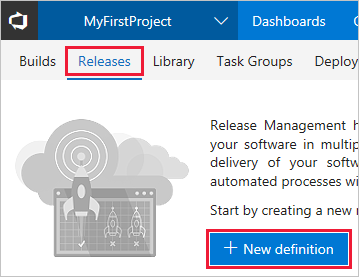
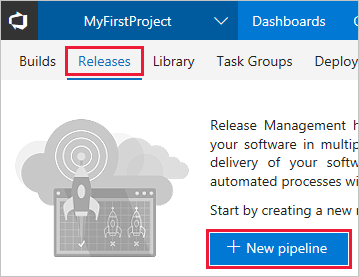
Unit testing notes, DevOps updates for UI changes

Changed region(s): [[0.6128, 0.8664, 0.9499, 0.9242]]

diff --git a/aspnetcore/azure/devops/cicd.md b/aspnetcore/azure/devops/cicd.md
@@ -17,7 +17,7 @@ In this section, you'll complete the following tasks:
 * Create a VSTS account
 * Create a team project in VSTS
 * Create a build definition
-* Create a release definition
+* Create a release pipeline
 * Commit changes to GitHub and automatically deploy to Azure
 * Examine the VSTS DevOps pipeline
 
@@ -119,9 +119,9 @@ There are three distinct steps to complete. Completing the steps in the followin
 
     Use the default folder of *\\*, and click the **Save** button.
 
-### Create the release definition
+### Create the release pipeline
 
-1. Click the **Releases** tab of your team project. Click the **New definition** button.
+1. Click the **Releases** tab of your team project. Click the **New pipeline** button.
 
     ![Releases tab - New definition button](media/cicd/vsts-new-release-definition.png)
 
@@ -129,17 +129,17 @@ There are three distinct steps to complete. Completing the steps in the followin
 
 1. From the template selection page, enter *App Service* in the search box:
 
-    ![Release definition template search box](media/cicd/vsts-release-template-search.png)
+    ![Release pipeline template search box](media/cicd/vsts-release-template-search.png)
 
-1. The template search results appear. Hover over the **Azure App Service Deployment with Slot** template, and click the **Apply** button. The **Pipeline** tab of the release definition appears.
+1. The template search results appear. Hover over the **Azure App Service Deployment with Slot** template, and click the **Apply** button. The **Pipeline** tab of the release pipeline appears.
 
-    ![Release definition Pipeline tab](media/cicd/vsts-release-definition-pipeline.png)
+    ![Release pipeline Pipeline tab](media/cicd/vsts-release-definition-pipeline.png)
 
 1. Click the **Add** button in the **Artifacts** box. The **Add artifact** panel appears:
 
-    ![Release definition - Add artifact panel](media/cicd/vsts-release-add-artifact.png)
+    ![Release pipeline - Add artifact panel](media/cicd/vsts-release-add-artifact.png)
 
-1. Select the **Build** tile from the **Source type** section. This type allows for the linking of the release definition to the build definition.
+1. Select the **Build** tile from the **Source type** section. This type allows for the linking of the release pipeline to the build definition.
 1. Select *MyFirstProject* from the **Project** drop-down.
 1. Select the build definition name, *MyFirstProject-ASP.NET Core-CI*, from the **Source (Build definition)** drop-down.
 1. Select *Latest* from the **Default version** drop-down. This option builds the artifacts produced by the latest run of the build definition.
@@ -147,19 +147,19 @@ There are three distinct steps to complete. Completing the steps in the followin
 1. Click the **Add** button. The **Artifacts** section updates to display the changes.
 1. Click the lightning bolt icon to enable continuous deployments:
 
-    ![Release definition Artifacts - lightning bolt icon](media/cicd/vsts-artifacts-lightning-bolt.png)
+    ![Release pipeline Artifacts - lightning bolt icon](media/cicd/vsts-artifacts-lightning-bolt.png)
 
     With this option enabled, a deployment occurs each time a new build is available.
-1. A **Continuous deployment trigger** panel appears to the right. Click the toggle button to enable the feature.
+1. A **Continuous deployment trigger** panel appears to the right. Click the toggle button to enable the feature. It isn't necessary to enable the **Pull request trigger**.
 1. Click the **Add** drop-down in the **Build branch filters** section. Choose the **Build Definition's default branch** option. This filter causes the release to trigger only for a build from the GitHub repository's *master* branch.
 1. Click the **Save** button. Click the **OK** button in the resulting **Save** modal dialog.
 1. Click the **Environment 1** box. An **Environment** panel appears to the right. Change the *Environment 1* text in the **Environment name** textbox to *Production*.
 
-   ![Release definition - Environment name textbox](media/cicd/vsts-environment-name-textbox.png)
+   ![Release pipeline - Environment name textbox](media/cicd/vsts-environment-name-textbox.png)
 
 1. Click the **1 phase, 2 tasks** link in the **Production** box:
 
-    ![Release definition - Production environment link.png](media/cicd/vsts-production-link.png)
+    ![Release pipeline - Production environment link.png](media/cicd/vsts-production-link.png)
 
     The **Tasks** tab of the environment appears.
 1. Click the **Deploy Azure App Service to Slot** task. Its settings appear in a panel to the right.
@@ -169,9 +169,9 @@ There are three distinct steps to complete. Completing the steps in the followin
 1. Select *AzureTutorial* from the **Resource group** drop-down.
 1. Select *staging* from the **Slot** drop-down.
 1. Click the **Save** button.
-1. Hover over the default release definition name. Click the pencil icon to edit it. Use *MyFirstProject-ASP.NET Core-CD* as the name.
+1. Hover over the default release pipeline name. Click the pencil icon to edit it. Use *MyFirstProject-ASP.NET Core-CD* as the name.
 
-    ![Release definition name](media/cicd/vsts-release-definition-name.png)
+    ![Release pipeline name](media/cicd/vsts-release-definition-name.png)
 
 1. Click the **Save** button.
 
@@ -211,7 +211,7 @@ There are three distinct steps to complete. Completing the steps in the followin
 
 ### Build definition
 
-A build definition was created with the name *MyFirstProject-ASP.NET Core-CI*. Upon completion, the build produces a *.zip* file including the assets to be published. The release definition deploys those assets to Azure.
+A build definition was created with the name *MyFirstProject-ASP.NET Core-CI*. Upon completion, the build produces a *.zip* file including the assets to be published. The release pipeline deploys those assets to Azure.
 
 The build definition's **Tasks** tab lists the individual steps being used. There are five build tasks.
 
@@ -219,7 +219,10 @@ The build definition's **Tasks** tab lists the individual steps being used. Ther
 
 1. **Restore** &mdash; Executes the `dotnet restore` command to restore the app's NuGet packages. The default package feed used is nuget.org.
 1. **Build** &mdash; Executes the `dotnet build --configuration Release` command to compile the app's code. This `--configuration` option is used to produce an optimized version of the code, which is suitable for deployment to a production environment. Modify the *BuildConfiguration* variable on the build definition's **Variables** tab if, for example, a debug configuration is needed.
-1. **Test** &mdash; Executes the `dotnet test --configuration Release` command to run the app's unit tests. This step currently serves no purpose, as no unit tests were written.
+1. **Test** &mdash; Executes the `dotnet test --configuration Release` command to run the app's unit tests. If any of the tests fail, the build fails and isn't deployed.
+
+    > [!NOTE]
+    > To verify the unit tests are working correctly, modify *SimpleFeedReader.Tests\Services\NewsServiceTests.cs* to purposefully break one of the tests, such as by changing `Assert.True(result.Count > 0);` to `Assert.False(result.Count > 0);` in the `Returns_News_Stories_Given_Valid_Uri()` method. Commit and push the change. The build will fail and the build pipeline status changes to **failed**. Revert the change, commit, and push again, and the build succeeds.
 1. **Publish** &mdash; Executes the `dotnet publish --configuration Release --output <local_path_on_build_agent>` command to produce a *.zip* file with the artifacts to be deployed. The `--output` option specifies the publish location of the *.zip* file. That location is specified by passing a [predefined variable](https://docs.microsoft.com/vsts/pipelines/build/variables) named `$(build.artifactstagingdirectory)`. That variable expands to a local path, such as *c:\agent\_work\1\a*, on the build agent.
 1. **Publish Artifact** &mdash; Publishes the *.zip* file produced by the **Publish** task. The task accepts the *.zip* file location as a parameter, which is the predefined variable `$(build.artifactstagingdirectory)`. The *.zip* file is published as a folder named *drop*.
 
@@ -237,29 +240,29 @@ A summary of this specific build is displayed. Click the **Artifacts** tab, and 
 
 Use the **Download** and **Explore** links to inspect the published artifacts.
 
-### Release definition
+### Release pipeline
 
-A release definition was created with the name *MyFirstProject-ASP.NET Core-CD*:
+A release pipeline was created with the name *MyFirstProject-ASP.NET Core-CD*:
 
-![release definition overview](media/cicd/release-definition-overview.png)
+![release pipeline overview](media/cicd/release-definition-overview.png)
 
-The two major components of the release definition are the **Artifacts** and the **Environments**. Clicking the box in the **Artifacts** section reveals the following panel:
+The two major components of the release pipeline are the **Artifacts** and the **Environments**. Clicking the box in the **Artifacts** section reveals the following panel:
 
-![release definition artifacts](media/cicd/release-definition-artifacts.png)
+![release pipeline artifacts](media/cicd/release-definition-artifacts.png)
 
-The **Source (Build definition)** value represents the build definition to which this release definition is linked. The *.zip* file produced by a successful run of the build definition is provided to the *Production* environment for deployment to Azure. Click the *1 phase, 2 tasks* link in the *Production* environment box to view the release definition tasks:
+The **Source (Build definition)** value represents the build definition to which this release pipeline is linked. The *.zip* file produced by a successful run of the build definition is provided to the *Production* environment for deployment to Azure. Click the *1 phase, 2 tasks* link in the *Production* environment box to view the release pipeline tasks:
 
-![release definition tasks](media/cicd/release-definition-tasks.png)
+![release pipeline tasks](media/cicd/release-definition-tasks.png)
 
-The release definition consists of two tasks: *Deploy Azure App Service to Slot* and *Manage Azure App Service - Slot Swap*. Clicking the first task reveals the following task configuration:
+The release pipeline consists of two tasks: *Deploy Azure App Service to Slot* and *Manage Azure App Service - Slot Swap*. Clicking the first task reveals the following task configuration:
 
-![release definition deploy task](media/cicd/release-definition-task1.png)
+![release pipeline deploy task](media/cicd/release-definition-task1.png)
 
 The Azure subscription, service type, web app name, resource group, and deployment slot are defined in the deployment task. The **Package or folder** textbox holds the *.zip* file path to be extracted and deployed to the *staging* slot of the *mywebapp\<unique_number\>* web app.
 
 Clicking the slot swap task reveals the following task configuration:
 
-![release definition slot swap task](media/cicd/release-definition-task2.png)
+![release pipeline slot swap task](media/cicd/release-definition-task2.png)
 
 The subscription, resource group, service type, web app name, and deployment slot details are provided. The **Swap with Production** checkbox is checked. Consequently, the bits deployed to the *staging* slot are swapped into the production environment.
 
